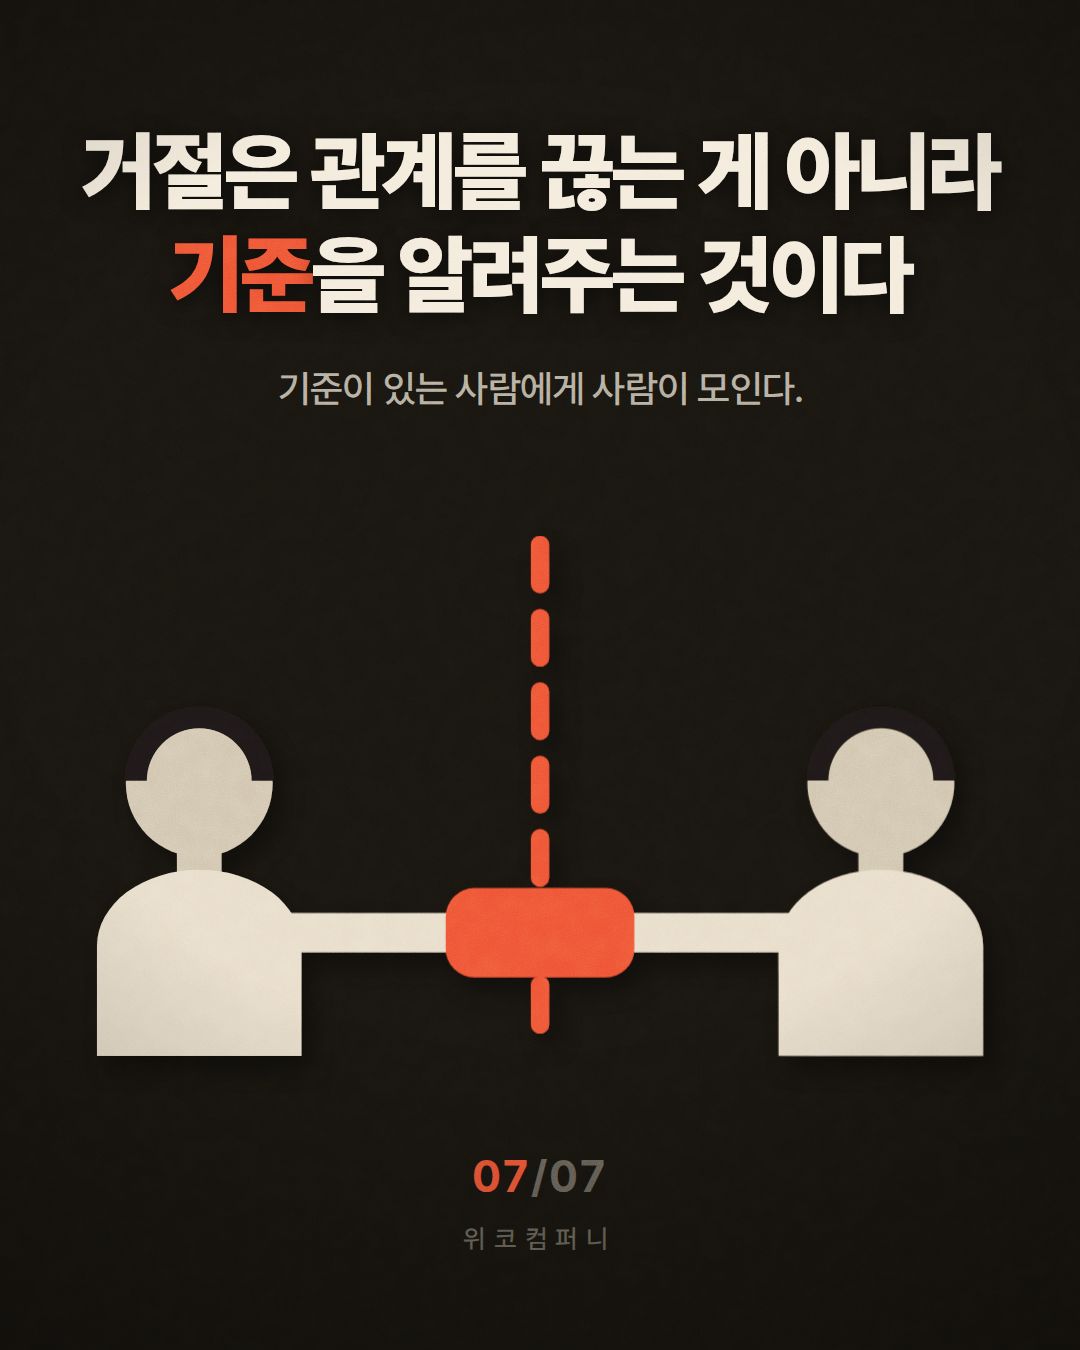
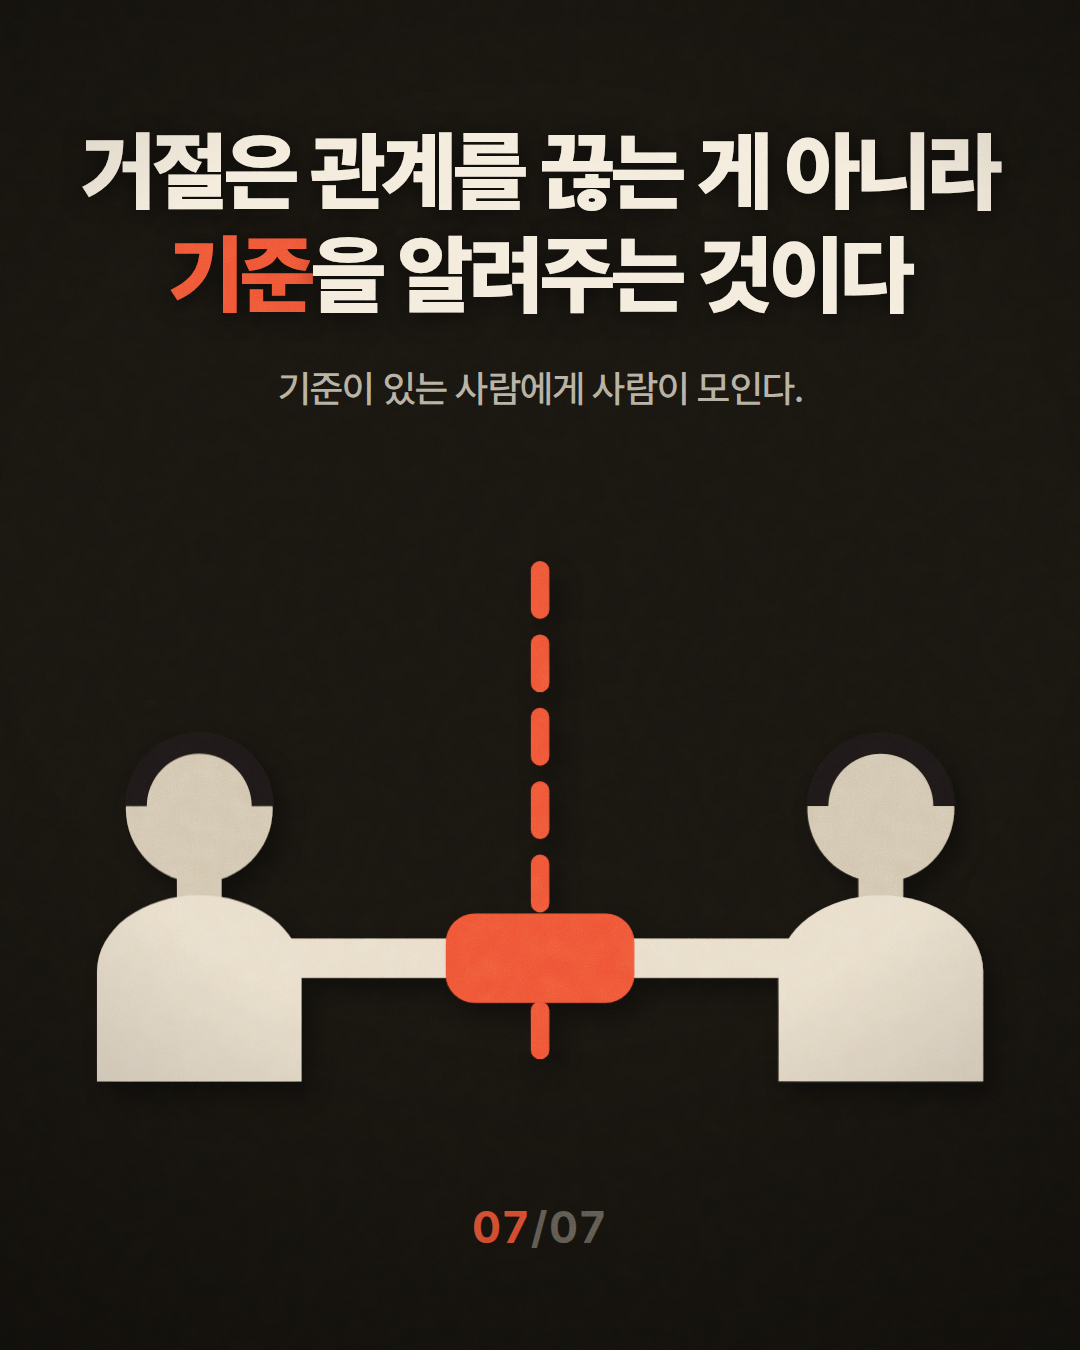
Add fifthtime card set and drop brand signature
- fifthtime: 반복해서 물어오는 사람 대응법 7장
  영어권 유튜브 조사에서 반응이 가장 센 각도(반복 요청 + 문지기 프레임)를 반영
- 전 세트에서 브랜드 서명 제거, sign 은 선택 항목으로 유지
- 전 세트 재렌더

Claude-Session: https://claude.ai/code/session_0196FBxeHrocYr2iVRBL3Svf

diff --git a/cardnews/sets/fifthtime.js b/cardnews/sets/fifthtime.js
@@ -1,0 +1,51 @@
+/* ===================================================================
+   카드셀 원고 — 「다섯 번째 '잠깐만 물어봐도 돼요?'」 (7장)
+
+   조사 근거 : 영어권 유튜브에서 이 주제 중 반응이 가장 센 각도는
+   '한 번'이 아니라 '반복해서 묻는 사람', 그리고 '문지기처럼 보이지
+   않으면서 끊는 법'이었다. (Yasar Ahmad 좋아요율 8.13%,
+   Lawyer Vince 6.18%, TriciaBiz 댓글율 3.87%)
+   문구는 전부 새로 썼다.
+   =================================================================== */
+
+window.CARD_SET = {
+  name: 'fifthtime',
+  ratio: [1080, 1350],
+  cards: [
+    {
+      theme: 'dark', layout: 'cover', art: 'pickBrain',
+      lines: ['“잠깐만 물어봐도 돼요?”', '<em>다섯 번째</em>입니다'],
+      sub: '반복해서 물어오는 사람 대응법',
+    },
+    {
+      theme: 'cream', layout: 'standard', art: 'scale',
+      lines: ['처음엔 호의였는데', '지금은 <em>무료 컨설팅</em>이다'],
+      sub: '몇 년 걸려 배운 걸 30분마다 넘겨주고 있다.',
+    },
+    {
+      theme: 'dark', layout: 'standard', art: 'hourglass',
+      lines: ['그래도 못 끊는 건', '<em>문지기</em>처럼 보일까 봐다'],
+      sub: '인색한 사람으로 보이기 싫어서 계속 열어준다.',
+    },
+    {
+      theme: 'cream', layout: 'tick', art: 'askFirst',
+      lines: ['“도와드릴게요. 그런데', '<em>정확히</em> 뭐가 막히세요?”'],
+      sub: '구체적으로 못 묻는 질문에는 답할 것도 없다.',
+    },
+    {
+      theme: 'dark', layout: 'tick', art: 'linkOut',
+      lines: ['세 번 넘게 받은 질문은', '<em>글로 써두고</em> 링크만 보낸다'],
+      sub: '한 번 정리해두면 백 번 답한 것과 같다.',
+    },
+    {
+      theme: 'cream', layout: 'tick', art: 'priceTag',
+      lines: ['“제대로 보려면', '<em>한 시간 잡을게요</em>”'],
+      sub: '값이 붙는 순간 진짜 필요한 사람만 남는다.',
+    },
+    {
+      theme: 'dark', layout: 'standard', art: 'boundary',
+      lines: ['문을 닫는 게 아니라', '<em>어디에 둘지</em> 정하는 것'],
+      sub: '문지기가 아니라, 기준을 가진 사람이 된다.',
+    },
+  ],
+};

diff --git a/cardnews/sets/brainpick.js b/cardnews/sets/brainpick.js
@@ -44,7 +44,6 @@ window.CARD_SET = {
       theme: 'dark', layout: 'standard', art: 'boundary',
       lines: ['거절은 관계를 끊는 게 아니라', '<em>기준</em>을 알려주는 것이다'],
       sub: '기준이 있는 사람에게 사람이 모인다.',
-      sign: '위코컴퍼니',
     },
   ],
 };

diff --git a/cardnews/sets/networking.js b/cardnews/sets/networking.js
@@ -44,7 +44,6 @@ window.CARD_SET = {
       theme: 'dark', layout: 'standard', art: 'exchange',
       lines: ['얻으러 가지 말고', '<em>줄 것을 들고</em> 가라'],
       sub: '그때부터 네트워킹이 된다.',
-      sign: '위코컴퍼니',
     },
   ],
 };

diff --git a/cardnews/sets/givefirst-en.js b/cardnews/sets/givefirst-en.js
@@ -45,7 +45,6 @@ window.CARD_SET = {
       theme: 'dark', layout: 'standard', art: 'boundary',
       lines: ['A no is not a closed door', 'it is your <em>terms</em>'],
       sub: 'People come back to those who have terms.',
-      sign: 'WECO COMPANY',
     },
   ],
 };

diff --git a/cardnews/README.md b/cardnews/README.md
@@ -39,7 +39,7 @@ npx http-server . -p 8080     # http://localhost:8080/cardnews/?set=networking
   art: 'scale',             // art.js 의 ART 키
   lines: ['커피 한 잔에', '<em>몇 년의 경험</em>이 넘어올까?'],   // <em> 안이 빨강
   sub: '네트워킹을 착각하는 사람들',
-  sign: '위코컴퍼니',        // 있으면 하단에 브랜드 서명 (보통 마지막 장만)
+  // sign: '브랜드명',      // 넣으면 하단에 서명이 붙는다 (기본은 없음)
 }
 ```
 
@@ -53,6 +53,7 @@ npx http-server . -p 8080     # http://localhost:8080/cardnews/?set=networking
 | `networking` | 네트워킹을 착각하는 사람들 (7장) |
 | `brainpick` | "노하우 좀 알려주세요" 거절법 (7장) |
 | `givefirst-en` | Give first — your knowledge has a price (영문 7장) |
+| `fifthtime` | 다섯 번째 "잠깐만 물어봐도 돼요?" (7장) |
 
 ## 새 카드셀 만들기
 
